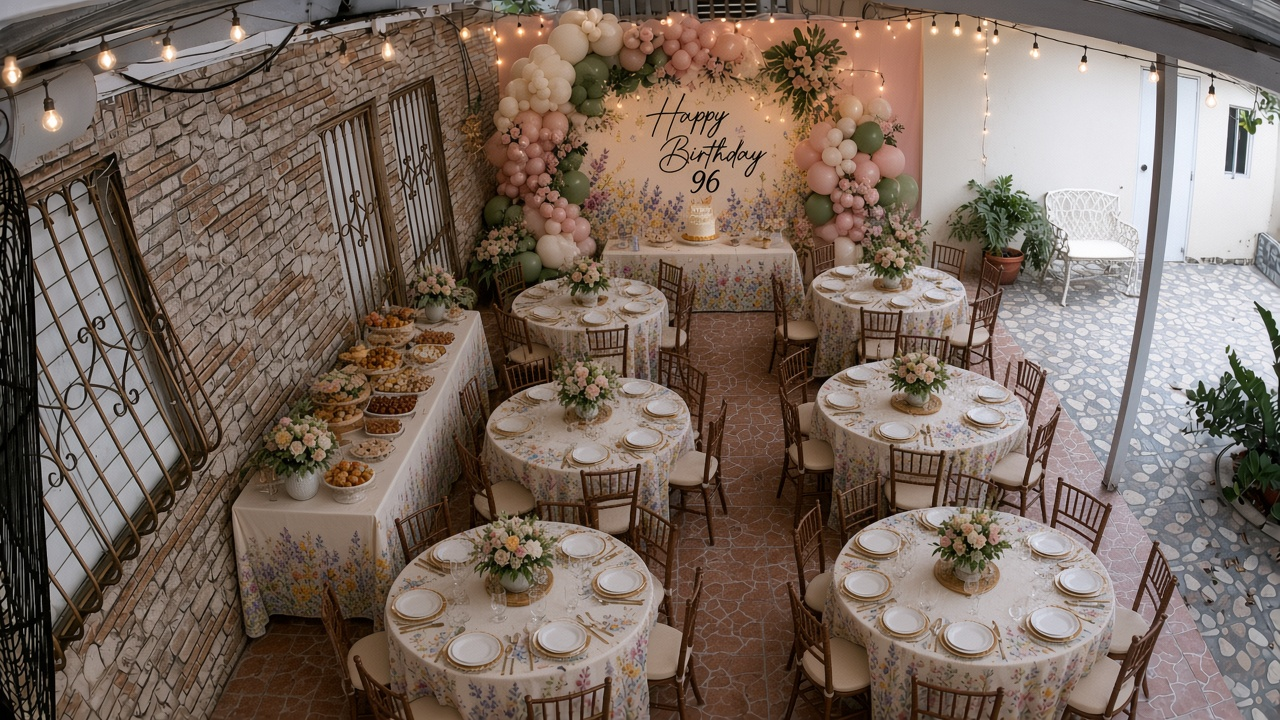
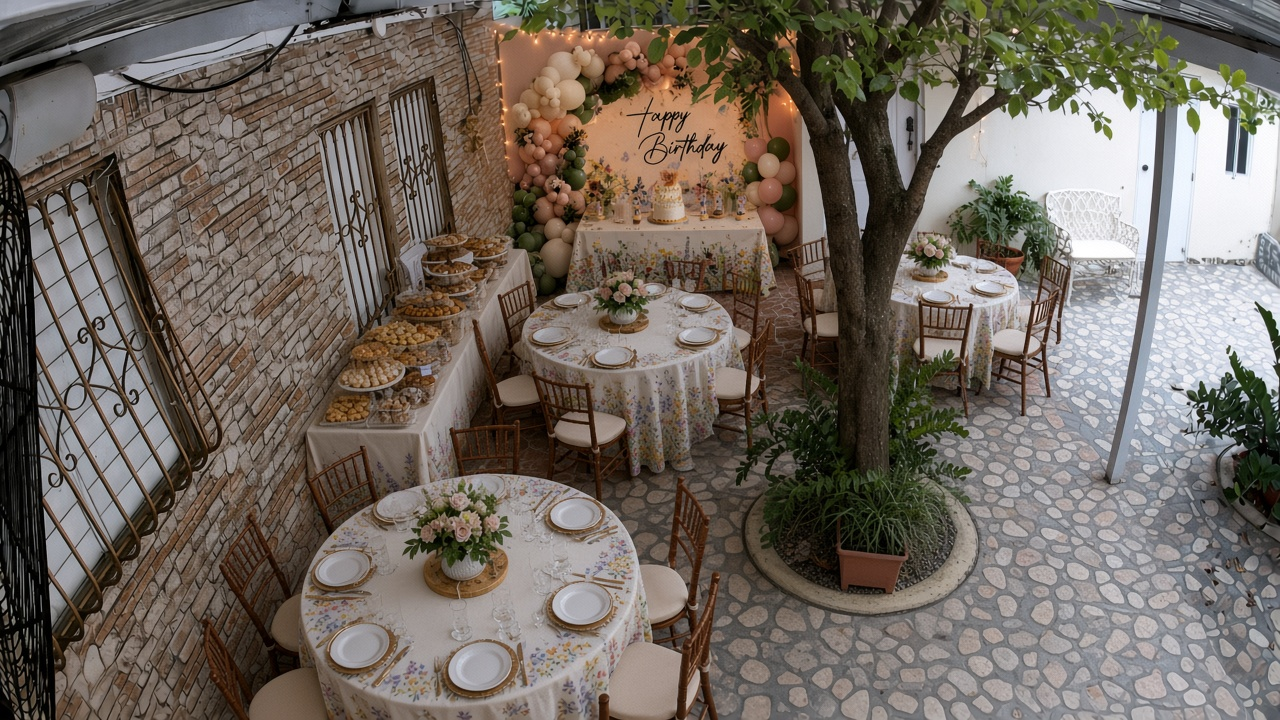
Use fixed tree, no honor table, realistic 60-inch rounds
Keep the tree in its real gray-side position, seat everyone at
matching family tables, and size rounds at 60 inches so capacity
(48 + 16 + 1 = 65) matches what can actually fit.

diff --git a/birthday-party-plan/index.html b/birthday-party-plan/index.html
@@ -3,7 +3,7 @@
 <head>
   <meta charset="UTF-8" />
   <meta name="viewport" content="width=device-width, initial-scale=1" />
-  <title>Grandma’s 96th — Final Patio Plan (65 Guests)</title>
+  <title>Grandma’s 96th — Realistic 60″ Table Plan</title>
   <link rel="preconnect" href="https://fonts.googleapis.com" />
   <link rel="preconnect" href="https://fonts.gstatic.com" crossorigin />
   <link href="https://fonts.googleapis.com/css2?family=Cormorant+Garamond:ital,wght@0,500;0,600;1,500&family=Outfit:wght@300;400;500;600&display=swap" rel="stylesheet" />
@@ -22,9 +22,9 @@
       min-height: 100vh; line-height: 1.45;
     }
     header, main, footer { max-width: 1080px; margin: 0 auto; padding-left: 1.4rem; padding-right: 1.4rem; }
-    header { padding-top: 2.4rem; padding-bottom: 1rem; }
+    header { padding-top: 2.3rem; padding-bottom: 1rem; }
     .eyebrow { font-size: 0.72rem; letter-spacing: 0.16em; text-transform: uppercase; color: var(--sage-deep); font-weight: 500; margin-bottom: 0.4rem; }
-    h1 { font-family: "Cormorant Garamond", Georgia, serif; font-weight: 600; font-size: clamp(1.9rem, 3.6vw, 2.6rem); }
+    h1 { font-family: "Cormorant Garamond", Georgia, serif; font-weight: 600; font-size: clamp(1.85rem, 3.5vw, 2.5rem); }
     h1 em { font-style: italic; color: var(--sage-deep); font-weight: 500; }
     .lede { max-width: 44rem; margin-top: 0.65rem; color: var(--muted); font-weight: 300; font-size: 1.02rem; }
     .meta { display: flex; flex-wrap: wrap; gap: 0.45rem; margin-top: 1rem; }
@@ -35,96 +35,67 @@
     .plan-card img { width: 100%; display: block; }
     .caption { padding: 0.75rem 1rem; font-size: 0.82rem; color: var(--muted); border-top: 1px solid var(--line); }
     .grid-2 { display: grid; grid-template-columns: 1fr 1fr; gap: 1.1rem; }
-    .grid-3 { display: grid; grid-template-columns: repeat(3, 1fr); gap: 0.85rem; }
-    @media (max-width: 800px) { .grid-2, .grid-3 { grid-template-columns: 1fr; } }
+    @media (max-width: 800px) { .grid-2 { grid-template-columns: 1fr; } }
     section.panel { background: rgba(255,250,243,0.78); border: 1px solid var(--line); padding: 1.15rem 1.25rem; }
     section.panel h2 { font-family: "Cormorant Garamond", Georgia, serif; font-size: 1.35rem; margin-bottom: 0.45rem; }
     section.panel p, section.panel li { color: var(--muted); font-size: 0.9rem; }
     section.panel ul { list-style: none; display: grid; gap: 0.4rem; margin-top: 0.65rem; }
     section.panel li::before { content: ""; display: inline-block; width: 0.35rem; height: 0.35rem; background: var(--blush); margin-right: 0.45rem; vertical-align: middle; }
-    .stat { border-top: 2px solid var(--sage); padding-top: 0.4rem; }
-    .stat .n { font-family: "Cormorant Garamond", Georgia, serif; font-size: 1.75rem; color: var(--sage-deep); line-height: 1; }
-    .stat .l { font-size: 0.72rem; color: var(--muted); margin-top: 0.15rem; }
-    a.btn { display: inline-block; margin-top: 0.75rem; color: var(--sage-deep); font-size: 0.88rem; font-weight: 500; }
+    a.btn { display: inline-block; margin-top: 0.7rem; color: var(--sage-deep); font-size: 0.88rem; font-weight: 500; }
     footer { padding-bottom: 2.75rem; color: var(--muted); font-size: 0.78rem; }
   </style>
 </head>
 <body>
   <header>
-    <p class="eyebrow">Complete package · Boho Spring Garden · 65 guests</p>
-    <h1>Grandma’s <em>96th</em> — final patio plan</h1>
+    <p class="eyebrow">Revised · tree fixed · realistic 60″ tables · no honor table</p>
+    <h1>Family seating for <em>65</em></h1>
     <p class="lede">
-      Floor plan, realistic render, and setup checklist. TV wall faces the cake wall on a straight brown-tile run;
-      gray band is about the same width outside the roof; bathroom stays clear beside the TV.
+      Tree stays in its real spot on the gray side. Everyone sits together at
+      <strong>60″ round tables</strong> (about 8 per table). No separate honor table.
     </p>
     <div class="meta">
-      <span class="chip"><strong>65</strong> seated</span>
-      <span class="chip"><strong>8-tray</strong> buffet</span>
-      <span class="chip"><strong>TV</strong> faces cake</span>
-      <span class="chip"><strong>Brown ≈ gray</strong></span>
+      <span class="chip"><strong>8×</strong> 60″ rounds</span>
+      <span class="chip"><strong>48</strong> brown + <strong>16</strong> gray</span>
+      <span class="chip"><strong>+1</strong> chair = 65</span>
+      <span class="chip"><strong>Tree</strong> fixed</span>
     </div>
   </header>
 
   <main>
     <div class="plan-card">
-      <img src="./assets/patio-floor-plan-65.png" alt="Final floor plan for 65 guests" />
-      <p class="caption">Final floor plan — Honor 9 + R1–R5 (40) + R6–R7 (16) = 65. Put a 9th chair at the honor table.</p>
+      <img src="./assets/patio-floor-plan-65.png" alt="Realistic floor plan with fixed tree and 60-inch rounds" />
+      <p class="caption">R1–R6 on brown (48) · R7–R8 around the fixed tree on gray (16) · +1 chair = 65. Tables drawn as 60″ to the 10 ft scale.</p>
     </div>
 
     <div class="plan-card">
-      <img src="./assets/patio-party-spatial-render.png" alt="Final realistic render from TV wall toward cake" />
-      <p class="caption">Realistic render from the TV/camera wall looking toward the cake wall (same angle as your Wyze photo).</p>
-    </div>
-
-    <div class="grid-2">
-      <div class="plan-card">
-        <img src="./assets/wyze-from-tv-wall.jpg" alt="Wyze reference toward cake wall" />
-        <p class="caption">Reference: Wyze on TV wall → cake wall.</p>
-      </div>
-      <div class="plan-card">
-        <img src="./assets/tv-wall-facing.jpg" alt="TV wall with bathroom door" />
-        <p class="caption">Reference: TV + bathroom door on the near wall.</p>
-      </div>
-    </div>
-
-    <div class="grid-3">
-      <div class="stat panel" style="border:1px solid var(--line);padding:1rem;">
-        <div class="n">9</div><div class="l">Honor (cake end)</div>
-      </div>
-      <div class="stat panel" style="border:1px solid var(--line);padding:1rem;">
-        <div class="n">40</div><div class="l">R1–R5 on brown</div>
-      </div>
-      <div class="stat panel" style="border:1px solid var(--line);padding:1rem;">
-        <div class="n">16</div><div class="l">R6–R7 on gray</div>
-      </div>
+      <img src="./assets/patio-party-spatial-render.png" alt="Render with tree in correct gray-side position" />
+      <p class="caption">Render from TV wall toward cake — tree remains on the gray side near the camera end; family rounds on brown.</p>
     </div>
 
     <div class="grid-2">
       <section class="panel">
-        <h2>Place in order</h2>
+        <h2>What changed</h2>
         <ul>
-          <li>Cake wall décor (backdrop, arch, cake)</li>
-          <li>Keep 4′ clear at TV / bathroom</li>
-          <li>8-tray buffet on brick wall</li>
-          <li>Honor 9, then R1–R5 on brown</li>
-          <li>R6–R7 on gray by the tree</li>
+          <li>Tree left in its <strong>real gray-side</strong> position (TV-end), not moved to the cake corner</li>
+          <li><strong>No honor table</strong> — all family at the same rounds</li>
+          <li>Tables are <strong>60″</strong> so you can judge real fit</li>
         </ul>
-        <a class="btn" href="./SETUP.md">Open full setup checklist →</a>
+        <a class="btn" href="./SETUP.md">Setup &amp; rental checklist →</a>
       </section>
       <section class="panel">
-        <h2>Don’t block</h2>
+        <h2>How 65 fits</h2>
         <ul>
-          <li>Bathroom door beside the TV</li>
-          <li>Photo stand space at the cake</li>
-          <li>Center aisle cake ↔ TV</li>
-          <li>Path past the roof pole to gray</li>
+          <li><strong>6</strong> rounds on brown under the roof → 48</li>
+          <li><strong>2</strong> rounds on gray around the tree → 16</li>
+          <li><strong>+1</strong> chair on any table → 65</li>
+          <li>Keep ~9 ft clear per table (table + chairs)</li>
         </ul>
       </section>
     </div>
   </main>
 
   <footer>
-    Theme: Boho Spring Garden (sage · dusty pink · cream). Open SETUP.md for rentals and day-of flow.
+    Measure on site before final rental counts — especially brown width past the buffet and clear ring around the tree planter.
   </footer>
 </body>
 </html>

diff --git a/birthday-party-plan/README.md b/birthday-party-plan/README.md
@@ -1,48 +1,29 @@
-# Grandma’s 96th Birthday — Patio Plan (Complete)
+# Grandma’s 96th — Realistic seating plan
 
-Boho Spring Garden party for **65 guests** on the covered patio + gray outdoor band.
+## What’s fixed in this revision
+- **Tree stays put** — circular planter on the gray side toward the TV end (not moved to the cake corner)
+- **No honor table** — everyone sits together at the same family tables
+- **Realistic size** — **60″ rounds** (5 ft), ~8 seats each, drawn to the 10 ft scale
 
-## Orientation (from your photos)
+## Capacity (honest)
 
-| | |
-|--|--|
-| **TV wall** (Wyze camera end) | TV mounted here, **faces the cake**. Bathroom door beside TV — keep **4′ clear**. |
-| **Cake wall** (opposite) | Backdrop + balloons + cake. Remove fridge & stacked chairs. |
-| **Brown band** | Under the roof, along brick/stone wall — **≈ same width as gray** |
-| **Gray band** | Outside the roof, past the pole — **≈ same width as brown** |
+| Zone | Tables | Seats |
+|------|--------|------:|
+| Brown under roof | R1–R6 × 60″ | 48 |
+| Gray around fixed tree | R7–R8 × 60″ | 16 |
+| Extra chair on any table | — | 1 |
+| **Total** | **8 rounds** | **65** |
 
-```
-              CAKE WALL
-     ┌──────────────┬──────────────┐
-     │ BROWN        │ GRAY         │
-     │ under roof   │ outside      │
-     │ ≈ equal width│ ≈ equal width│
-     │ buffet+seats │ tree+seats   │
-     └──────────────┴──────────────┘
-              TV WALL
-         (TV faces cake · bath beside TV)
-```
+Each 60″ table needs about **9 ft** clear including chairs. Photo zone at the cake (~5 ft) and bathroom clear at the TV (~4 ft) are kept empty of dining tables.
 
-## Final seating (65)
-
-| Zone | What | Seats |
-|------|------|------:|
-| Honor | Near cake, offset for photos (use 9 chairs) | 9 |
-| R1–R5 | Rounds on brown under roof | 40 |
-| R6–R7 | Rounds on gray by the tree | 16 |
-| **Total** | | **65** |
-
-## Buffet (8 trays)
-
-Long tables on the **brick/stone wall**, one-way: plates nearer the TV end → trays 1–8 toward the cake → guests return to seats. Do not block the bathroom clear strip.
+## Layout rules
+- Brown ≈ gray width; brown under roof; gray outside past the pole  
+- TV on camera wall faces cake; bathroom beside TV  
+- 8-tray buffet on brick/stone wall (brown side)  
+- All family seating — no separate head table  
 
 ## Files
-
-| File | Purpose |
-|------|---------|
-| [patio-floor-plan-65.png](./assets/patio-floor-plan-65.png) | Final labeled floor plan |
-| [patio-party-spatial-render.png](./assets/patio-party-spatial-render.png) | Realistic view from TV wall toward cake |
-| [SETUP.md](./SETUP.md) | Clear / rent / place checklist |
-| [index.html](./index.html) | Open in a browser for the full package |
-| [wyze-from-tv-wall.jpg](./assets/wyze-from-tv-wall.jpg) | Real camera reference |
-| [tv-wall-facing.jpg](./assets/tv-wall-facing.jpg) | TV + bathroom door reference |
+- [Floor plan](./assets/patio-floor-plan-65.png)
+- [Render](./assets/patio-party-spatial-render.png)
+- [Setup checklist](./SETUP.md)
+- [Browser view](./index.html)

diff --git a/birthday-party-plan/SETUP.md b/birthday-party-plan/SETUP.md
@@ -3,34 +3,32 @@
 ## Clear before setup
 - [ ] Move fridge and stacked white chairs off the **cake wall**
 - [ ] Clear sofas/coffee table from brown floor
-- [ ] Keep **bathroom door** (beside TV) fully usable
+- [ ] Do **not** move the tree or planter
+- [ ] Keep **bathroom door** (beside TV) fully usable — 4′ clear
 
-## Rent / buy
+## Rent / buy (realistic sizes)
 | Item | Qty | Notes |
 |------|-----|--------|
-| Round tables (60″) | 7 | R1–R7 |
-| Banquet/rect table (honor) | 1 | Seats 9 near cake |
-| Chairs | 65 | + a few spares |
-| Buffet tables | 2×6′ or 1×8′+ | ~16′ total for **8 trays** |
-| Cake table | 1×4–6′ | In front of backdrop |
-| Linens | Matching wildflower/cream | Tables + buffet + cake |
-| Backdrop + balloon arch | 1 kit | Boho Spring Garden (sage / blush / cream) |
-| String lights | As needed | Under roof + overhead wires |
+| **60″ round tables** | **8** | R1–R8 · seats ~8 each |
+| Chairs | **65** | 64 at tables + 1 spare/extra |
+| Buffet tables | ~16′ total | For **8 trays** (e.g. 2×8′ or 2×6′+2′) |
+| Cake table | 1×4–6′ | At backdrop only |
+| Linens | For 8 rounds + buffet + cake | Cream / wildflower |
+| Backdrop + balloon arch | 1 | Boho Spring Garden |
+| String lights | As needed | Under roof |
 
 ## Place in this order
-1. **Cake wall** — backdrop, arch, cake table (photo floor clear)
-2. **TV wall** — leave **4′ clear** across; no chairs in bathroom swing
-3. **Buffet** — stone/brick wall; plates near TV end → 8 trays toward cake
-4. **Honor (9)** — near cake, offset so photos stay open
-5. **R1–R5** — brown under roof, two columns + center aisle
-6. **R6–R7** — gray outside, around the tree (past the pole)
-
-## Day-of flow
-- Guests enter → seats on brown or gray  
-- Food: one-way buffet (don’t block bathroom)  
-- Photos: cake wall, aisle kept open  
-- Bathroom: always clear at TV wall  
+1. **Cake wall** — backdrop, arch, cake (keep photo floor clear ~5′)
+2. **TV wall** — leave **4′ clear**; no chairs in bathroom door swing
+3. **Buffet** — brick wall; plates near TV → 8 trays toward cake
+4. **R1–R6** — 60″ rounds on **brown** only (2 columns × 3 rows)
+5. **R7–R8** — 60″ rounds on **gray**, **around** the fixed tree (not on the planter)
 
 ## Seat math
-**Honor 9 + R1–R5 (40) + R6–R7 (16) = 65**  
-(If the honor table is drawn with 8 chairs, add a 9th chair there.)
+**R1–R6 (48) + R7–R8 (16) = 64 · +1 chair = 65**
+
+## Day-of flow
+- Family seating at all rounds (no separate head table)
+- Buffet one-way — don’t block bathroom
+- Photos at cake wall — keep aisle open
+- Tree and pole stay as fixed obstacles
